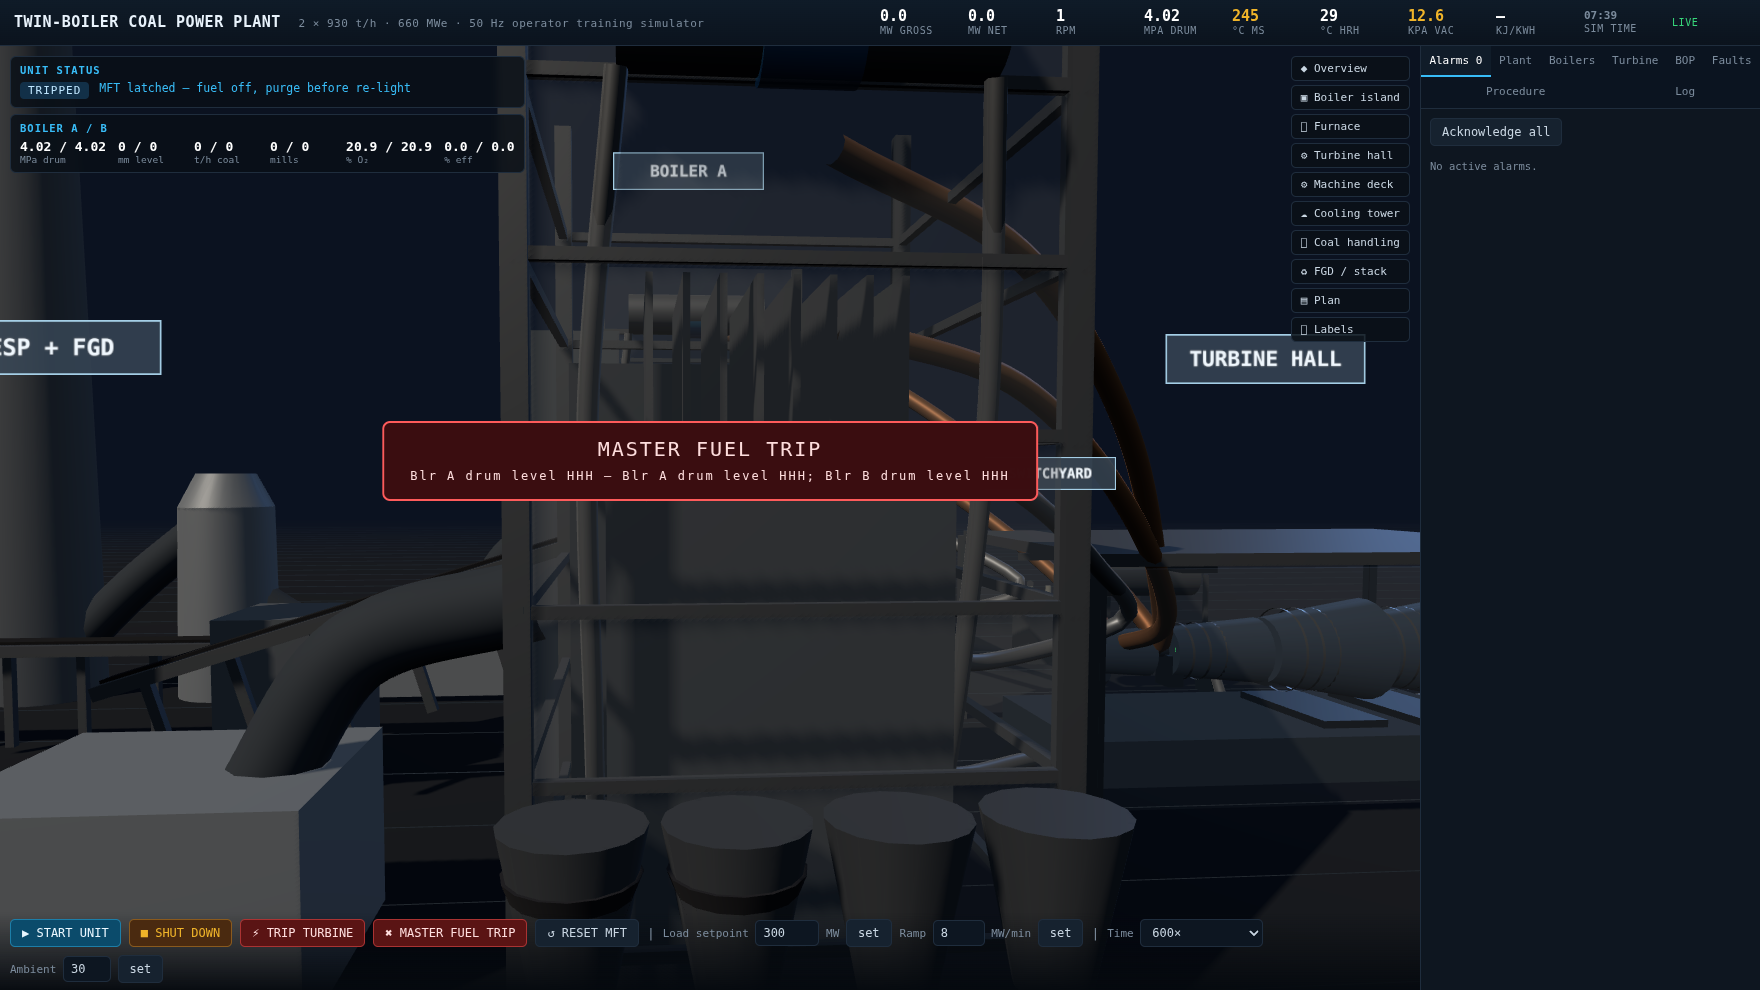
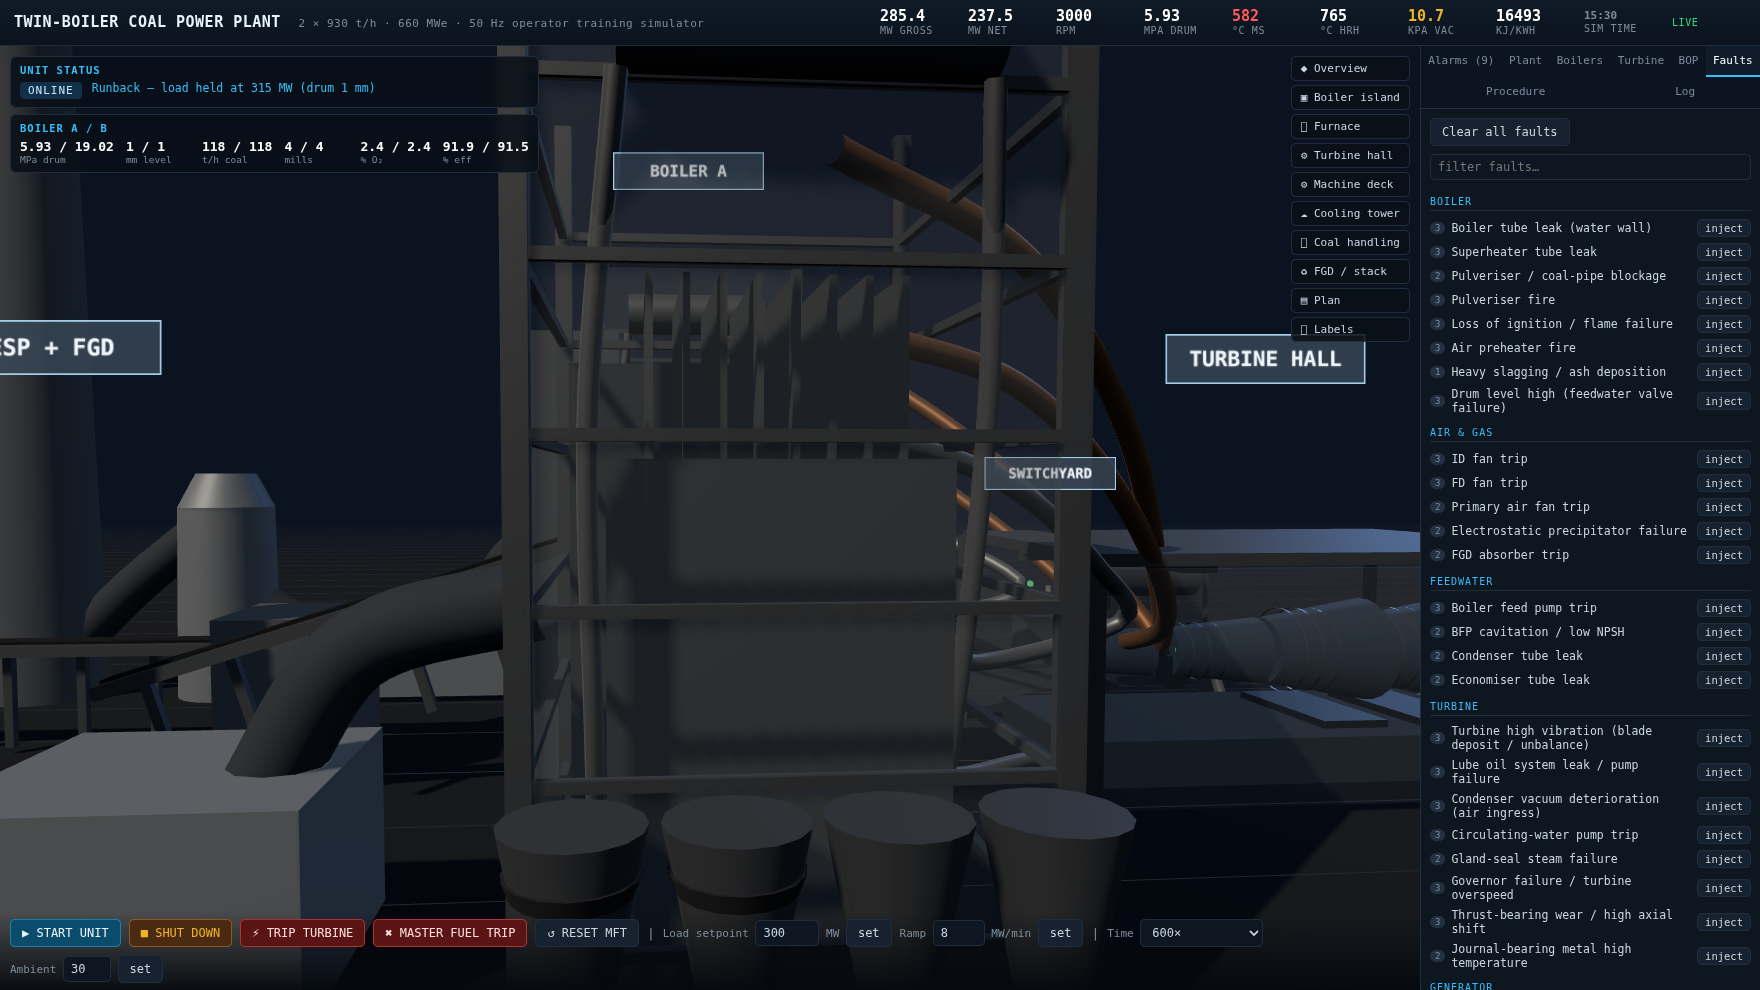
Raise the integration sub-step cap so 600x time acceleration stays numerically stable

diff --git a/tools/shots.js b/tools/shots.js
@@ -46,6 +46,13 @@ const sleep = (ms) => new Promise(r => setTimeout(r, ms));
     return null;
   });
   // The page owns the socket, so drive through its own controls.
+  // make sure the shared plant starts from a clean slate
+  await page.evaluate(() => {
+    const b = Array.from(document.querySelectorAll('.tabs button[data-pane]')).find(x => x.dataset.pane === 'faults');
+    if (b) b.click();
+  });
+  await page.evaluate(() => { const b = document.querySelector('#clearAllFaults'); if (b) b.click(); });
+  await page.evaluate(() => { const b = document.querySelector('#btnReset'); if (b) b.click(); });
   await page.select('#speed', '600');
   await page.click('#btnStart');
 
@@ -74,7 +81,7 @@ const sleep = (ms) => new Promise(r => setTimeout(r, ms));
       mode: document.querySelector('#mode').textContent,
       mw: parseFloat(document.querySelector('#hMW').textContent || '0'),
     }));
-    if (st.mw > 280) break;
+    if (st.mw > 420) break;
     if (st.mode === 'TRIPPED') { console.log('   (unit tripped during loading — keeping the loaded screenshots)'); break; }
   }
   await sleep(2500);
@@ -125,6 +132,8 @@ const sleep = (ms) => new Promise(r => setTimeout(r, ms));
   await page.evaluate(() => document.querySelector('#viewbtns button[data-view="topDown"]').click());
   await sleep(1800);
   await shot('09-plan-view.png');
+
+  if (process.env.SKIP_ADMIN === '1') { await browser.close(); console.log('done →', OUT); return; }
 
   // --- admin console -----------------------------------------------------
   const ap = await browser.newPage();

diff --git a/server/sim/engine.js b/server/sim/engine.js
@@ -885,7 +885,7 @@ class Plant {
     const simDt = dtReal * this.speedFactor;
     if (simDt <= 0) return;
     // sub-step so that fast time constants stay stable under time acceleration
-    const nSub = clamp(Math.ceil(simDt / 0.5), 1, 90);
+    const nSub = clamp(Math.ceil(simDt / 0.5), 1, 260);
     const dt = simDt / nSub;
 
     for (let k = 0; k < nSub; k++) {
